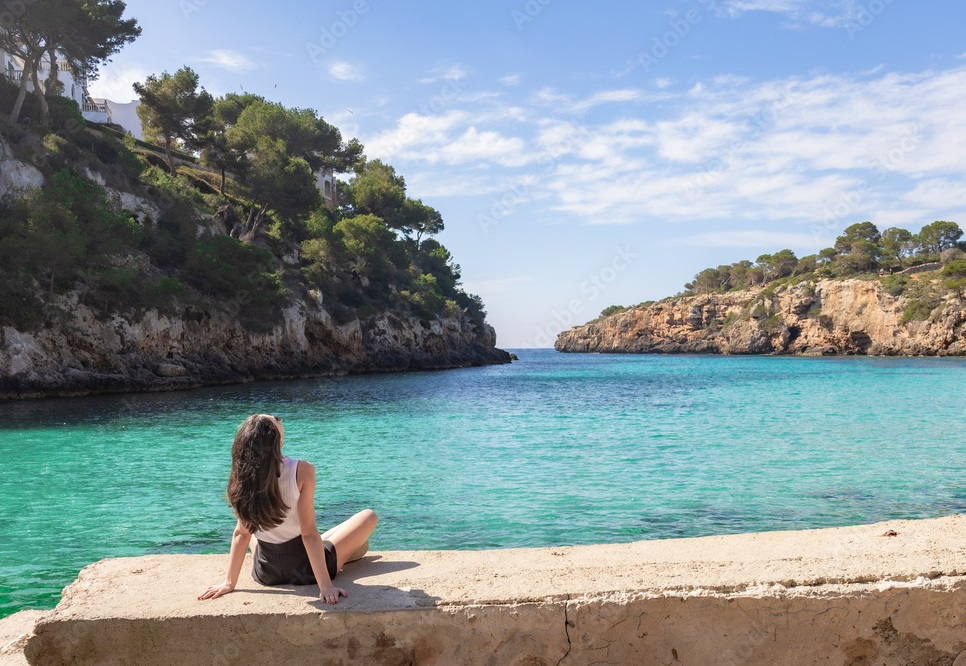
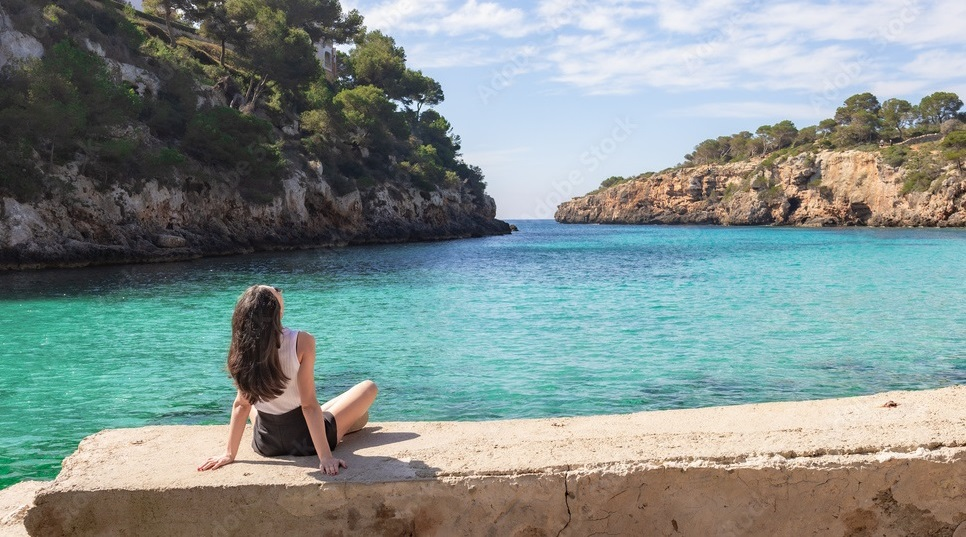
1 created the destinations section in the main page 2 learned about 'object-fit: contain/fill/cover'

diff --git a/Landing project/index.html b/Landing project/index.html
@@ -35,7 +35,23 @@
           <a href="/Landing project/Destinations.html">Discover destinations</a>
         </div>
       </section>
-      <section></section>
+      <section id="destinations">
+        <h2>Destinations</h2>
+        <ul>
+          <li class="destination">
+            <img src="/Landing project/Images/Destinations/Lake Como Italy.jpg" alt="">
+            <p>Lake Como <strong>Italy</strong></p>
+          </li>
+          <li class="destination">
+            <img src="/Landing project/Images/Destinations/Pulpit Rock Norway.jpg" alt="">
+            <p>Pulpit Rock <strong>Norway</strong></p>
+          </li>
+          <li class="destination">
+            <img src="/Landing project/Images/Destinations/Sequoia National Park California.jpg" alt="">
+            <p>Sequoia National Park <strong>California</strong></p>
+          </li>
+        </ul>
+      </section>
     </main>
     <footer></footer>
   </body>

diff --git a/Landing project/styles.css b/Landing project/styles.css
@@ -1,5 +1,5 @@
 #hero {
-  height: 800px;
+  height: 600px;
   background-image: url(/Landing%20project/Images/Destinations/Ocean.jpg);
   background-position: center;
   background-size: cover;
@@ -42,4 +42,29 @@
 #hero-content a:hover {
   color: rgb(0, 0, 0);
   background-color: rgba(255, 255, 255, 0.475);
+}
+#destinations {
+  background-color: rgb(202, 202, 255);
+  text-align: center;
+  padding: 30px 20px 0 20px;
+}
+#destinations h2 {
+  font-family: "dela gothic one", sans-serif;
+  margin: 0;
+}
+#destinations ul {
+  display: flex;
+  padding: 20px 0;
+}
+.destination {
+  margin: 10px 30px;
+  font-family: 'kalam', sans-serif;
+}
+.destination p {
+    margin: 0;
+}
+.destination img {
+  width: 100%;
+  height: 200px;
+  object-fit: cover;
 }

diff --git a/Landing project/shared.css b/Landing project/shared.css
@@ -1,5 +1,10 @@
 body {
-    margin: 0;
+  margin: 0;
+}
+ul {
+  list-style: none;
+  padding: 0;
+  margin: 0;
 }
 header {
   padding: 30px 70px;
@@ -15,9 +20,6 @@ header {
   align-items: center;
 }
 #navigator {
-  list-style: none;
-  padding: 0;
-  margin: 0;
   display: flex;
   justify-content: flex-end;
 }
@@ -34,8 +36,9 @@ li a {
   border-radius: 8px;
   padding: 8px 16px;
 }
-li a:hover, li a:active {
-    background-color: rgba(255, 255, 255, 0.322);
+li a:hover,
+li a:active {
+  background-color: rgba(255, 255, 255, 0.322);
 }
 #logo a {
   font-family: "chewy", sans-serif;
